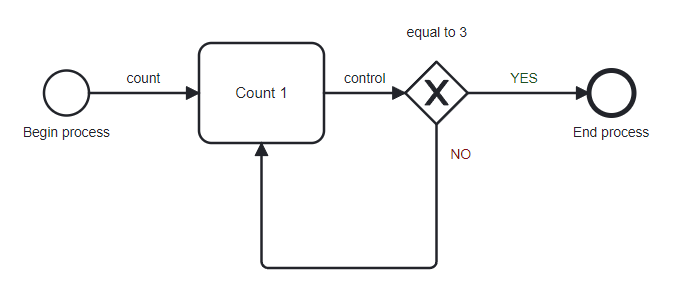
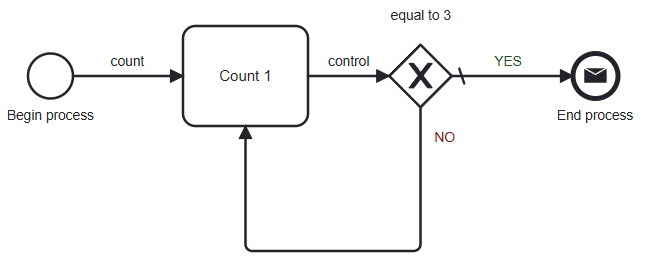
Optionally register an end callback to act on end events.

diff --git a/src/process.rs b/src/process.rs
@@ -4,6 +4,7 @@ pub(crate) mod handler;
 mod scaffold;
 
 use crate::{
+    Symbol,
     api::{Exclusive, Inclusive, IntermediateEvent, Task},
     bpmn::BpmnType,
     diagram::{
@@ -30,6 +31,7 @@ where
     diagram: Diagram,
     handler: Handler<T>,
     func_map: FuncMap,
+    end_callback: Option<usize>,
 }
 
 impl<T> ProcessBuilder<T> {
@@ -59,6 +61,7 @@ impl<T> ProcessBuilder<T> {
             diagram,
             handler: Default::default(),
             func_map: Default::default(),
+            end_callback: Default::default(),
         })
     }
 
@@ -117,6 +120,22 @@ impl<T> ProcessBuilder<T> {
         self
     }
 
+    /// Optionally register an end callback to act on end events. If an error is returned it terminate the process
+    /// prematurely and have it return the specified error. Only one can be registered.
+    pub fn end_event<F>(mut self, func: F) -> Self
+    where
+        F: Fn(&T, Option<&str>, Symbol) -> Result<(), Box<dyn std::error::Error + Send + Sync>>
+            + 'static
+            + Sync
+            + Send,
+    {
+        self.end_callback = self
+            .handler
+            .add_callback(Callback::End(Box::new(func)))
+            .into();
+        self
+    }
+
     /// Install and check that all required functions have been registered. Return runnable process if successful.
     /// If `build` returns an error, it contains the missing functions.
     pub fn build(mut self) -> Result<Process<T>, BuildError> {
@@ -125,6 +144,7 @@ impl<T> ProcessBuilder<T> {
             Ok(Process {
                 diagram: self.diagram,
                 handler: self.handler,
+                end_callback: self.end_callback,
             })
         } else {
             Err(BuildError::MissingImplementations(
@@ -153,6 +173,7 @@ impl<T> FromStr for ProcessBuilder<T> {
             diagram: read_bpmn(quick_xml::Reader::from_str(s))?,
             handler: Default::default(),
             func_map: Default::default(),
+            end_callback: Default::default(),
         })
     }
 }
@@ -164,6 +185,7 @@ where
 {
     diagram: Diagram,
     handler: Handler<T>,
+    end_callback: Option<usize>,
 }
 
 impl<T> Process<T> {

diff --git a/src/process/handler.rs b/src/process/handler.rs
@@ -1,6 +1,7 @@
 use crate::{
+    Symbol,
     api::{Exclusive, Inclusive, IntermediateEvent, Task},
-    process::{RuntimeError},
+    process::RuntimeError,
 };
 
 macro_rules! callback {
@@ -21,12 +22,18 @@ type TaskCallback<T> = Box<dyn Fn(&T) -> Task + Sync + Send>;
 type ExclusiveCallback<T> = Box<dyn Fn(&T) -> Exclusive + Sync + Send>;
 type InclusiveCallback<T> = Box<dyn Fn(&T) -> Inclusive + Sync + Send>;
 type EventBasedCallback<T> = Box<dyn Fn(&T) -> IntermediateEvent + Sync + Send>;
+type EndCallback<T> = Box<
+    dyn Fn(&T, Option<&str>, Symbol) -> Result<(), Box<dyn std::error::Error + Send + Sync>>
+        + Sync
+        + Send,
+>;
 
 pub(super) enum Callback<T> {
     Task(TaskCallback<T>),
     Exclusive(ExclusiveCallback<T>),
     Inclusive(InclusiveCallback<T>),
     EventBased(EventBasedCallback<T>),
+    End(EndCallback<T>),
 }
 
 pub(super) struct Handler<T> {
@@ -53,4 +60,19 @@ impl<T> Handler<T> {
     callback!(run_exclusive, Callback::Exclusive(func) => func, Exclusive);
     callback!(run_inclusive, Callback::Inclusive(func) => func, Inclusive);
     callback!(run_eventbased, Callback::EventBased(func) => func, IntermediateEvent);
+
+    pub(super) fn run_end(
+        &self,
+        index: usize,
+        data: &T,
+        name: Option<&str>,
+        symbol: Symbol,
+    ) -> Result<Result<(), Box<dyn std::error::Error + Send + Sync>>, RuntimeError> {
+        let Some(Callback::End(func)) = self.callbacks.get(index) else {
+            Err(RuntimeError::Engine(format!(
+                "missing run_end with index: {index}",
+            )))?
+        };
+        Ok(func(data, name, symbol))
+    }
 }

diff --git a/examples/reusable.rs b/examples/reusable.rs
@@ -7,7 +7,6 @@ use std::sync::{
 
 // Tasks
 const RUN_COUNTER_PROCESS: &'static str = "run counter process";
-const HANDLE_ERROR: &'static str = "handle error";
 const COUNT_1: &'static str = "Count 1";
 
 //Gateways
@@ -34,7 +33,13 @@ fn main() -> Result<(), Box<dyn std::error::Error>> {
 
     let manager = ProcessBuilder::<Mutex<Manager>>::new("examples/reusable.bpmn")?
         .task(RUN_COUNTER_PROCESS, run_counter_process()?)
-        .task(HANDLE_ERROR, handle_error)
+        .end_event(|input, _name, symbol| {
+            // Act on error end event, update model or inform external system
+            if let Symbol::Error = symbol {
+                input.lock().unwrap().failed = true;
+            }
+            Ok(())
+        })
         .build()?;
 
     println!("{:?}", manager.run(Default::default())?.into_inner()?);
@@ -69,9 +74,4 @@ fn run_counter_process() -> Result<impl Fn(&Mutex<Manager>) -> Task, Box<dyn std
         input.lock().unwrap().counters.push(counter);
         Default::default()
     })
-}
-
-fn handle_error(input: &Mutex<Manager>) -> Task {
-    input.lock().unwrap().failed = true;
-    Default::default()
 }

diff --git a/src/process/engine.rs b/src/process/engine.rs
@@ -172,6 +172,14 @@ impl<T> Process<T> {
                             }
                         }
                         EventType::End => {
+                            if let Some(index) = self.end_callback
+                                && let Some(symbol) = symbol
+                            {
+                                self.handler
+                                    .run_end(index, input.data, name.as_deref(), *symbol)?
+                                    .map_err(RuntimeError::Panic)?;
+                            }
+
                             return Ok(Return::End(event));
                         }
                     }

diff --git a/examples/counter.rs b/examples/counter.rs
@@ -21,12 +21,16 @@ fn main() -> Result<(), Box<dyn std::error::Error>> {
             }
             .into()
         })
+        .end_event(|_input, name, symbol| {
+            log::debug!(
+                "act on end event `{symbol}` with name `{}`",
+                name.unwrap_or_default()
+            );
+            Ok(())
+        })
         .build()?;
 
-    // Run the process with input data
-    let result = bpmn.run(Default::default())?;
-
-    // Print the result.
-    println!("{result:?}");
+    // Run the process with input data and print result
+    println!("{:?}", bpmn.run(Default::default())?);
     Ok(())
 }

diff --git a/docs/changelog.md b/docs/changelog.md
@@ -10,13 +10,14 @@
 
 ### API changes
 
-- Removed typestate pattern with regular builder. Now use `ProcessBuilder::new` and `build()` to create the runnable `Process`.
-- Renamed Enum `With` to `Inclusive`.
-- New enum types `Exclusive`, `Task`, `IntermediateEvent`.
-- Support for `Panic`. Enables terminating the process from task and gateways. The process returns a RunTimeError::Panic containing the specified error.
+- Added an optional callback for end events to enable handling of such events, updating the model upon errors, or sending messages to external systems.
 - Using `Cow<'static, str>` instead of `&'static str` to be more flexible with different types of strings.
 - Added convenient factory methods for cases where conversions via `From` are not used.
 - Error redesign.
+- Support for `Panic`. Enables terminating the process from task and gateways. The process returns a RunTimeError::Panic containing the specified error.
+- Renamed Enum `With` to `Inclusive`.
+- New enum types `Exclusive`, `Task`, `IntermediateEvent`.
+- Removed typestate pattern with regular builder. Now use `ProcessBuilder::new` and `build()` to create the runnable `Process`.
 - Removed `Arc` and `Mutex` usage in Snurr and let the user choose. Callbacks now use `&T` instead of `Arc<Mutex<T>>`.
     - Change your process type to `ProcessBuilder::<Arc<Mutex<YourModel>>>::new` to maintain compatibility with existing code.
     - And to extract result

diff --git a/docs/documentation.md b/docs/documentation.md
@@ -274,6 +274,25 @@ End events have different effects depending on where they are used. In a regular
 - **Signal** In a subprocess, ends and run the Signal boundary.
 - **Terminate** ends the process. In a subprocess, ends and continues with the parent process.
 
+#### Listen to end events
+
+Optionally register an end callback to act on end events. If an error is returned it terminate the process prematurely and have it return the specified error. Only one can be registered.
+
+```rust no_run
+# use snurr::{ProcessBuilder, Symbol} ;
+# fn main() -> Result<(), Box<dyn std::error::Error>> {
+#   ProcessBuilder::<()>::new("dummy.bpmn")?
+.end_event(|_input, name, symbol| {      
+    match symbol {
+        Symbol::Error => println!("act on an error, such as update the model or inform external systems"),
+        _ => println!("ignore other end events"),
+    }
+    Ok(())
+});
+# Ok(())
+# }
+```
+
 ### Intermediate event
 
 - Intermediate **none** events (no icon) don't do anything and just follow its output. 

diff --git a/README.md b/README.md
@@ -55,10 +55,16 @@ fn main() -> Result<(), Box<dyn std::error::Error>> {
             }
             .into()
         })
+        .end_event(|_input, name, symbol| {
+            log::debug!(
+                "act on end event `{symbol}` with name `{}`",
+                name.unwrap_or_default()
+            );
+            Ok(())
+        })
         .build()?;
 
-    let result = bpmn.run(Default::default())?;
-    println!("{result:?}");
+    println!("{:?}", bpmn.run(Default::default())?);
     Ok(())
 }
 ```
@@ -83,5 +89,6 @@ If `RUST_LOG=debug` is set when running example
  DEBUG snurr::process::engine > Exclusive `equal to 3`
  DEBUG snurr::process::engine > SequenceFlow `YES`
  DEBUG snurr::process::engine > End `End process`
+ DEBUG counter                > act on end event `Message` with name `End process`
 Counter(3)
 ```
